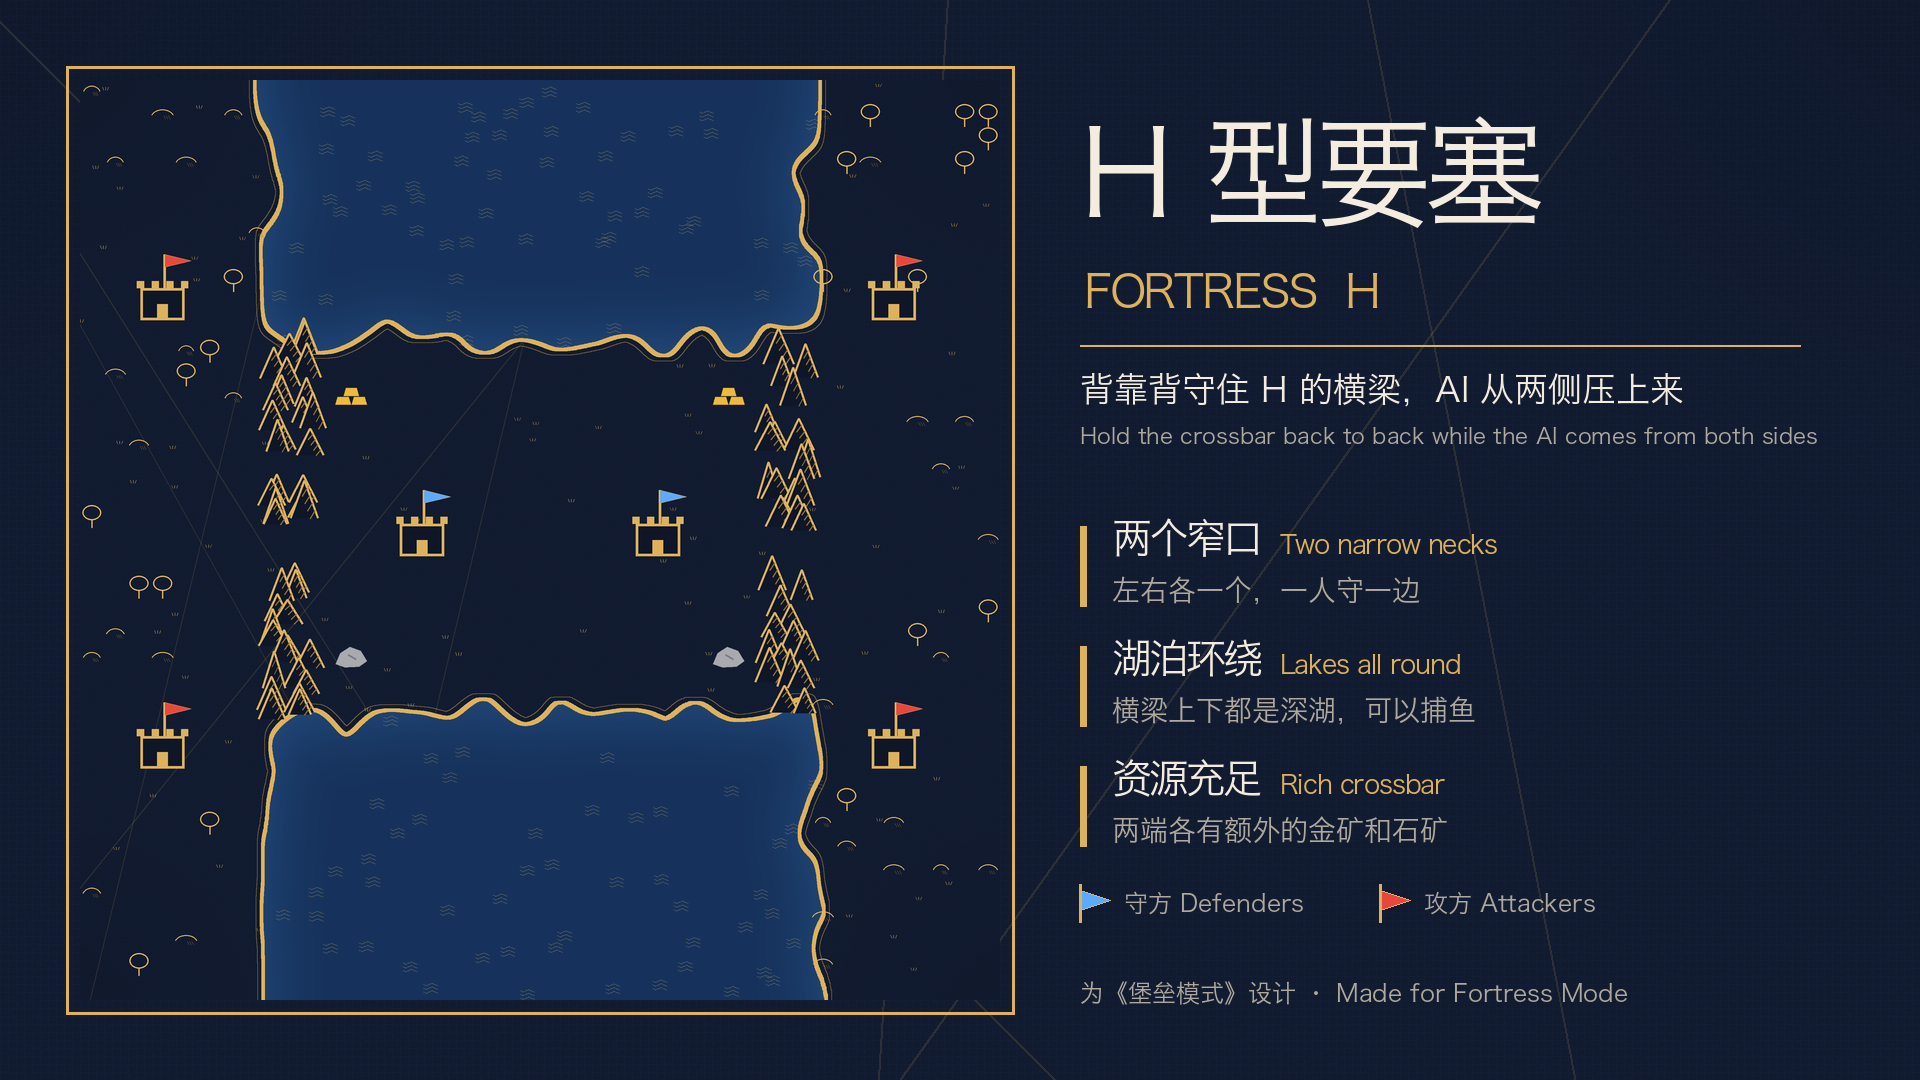
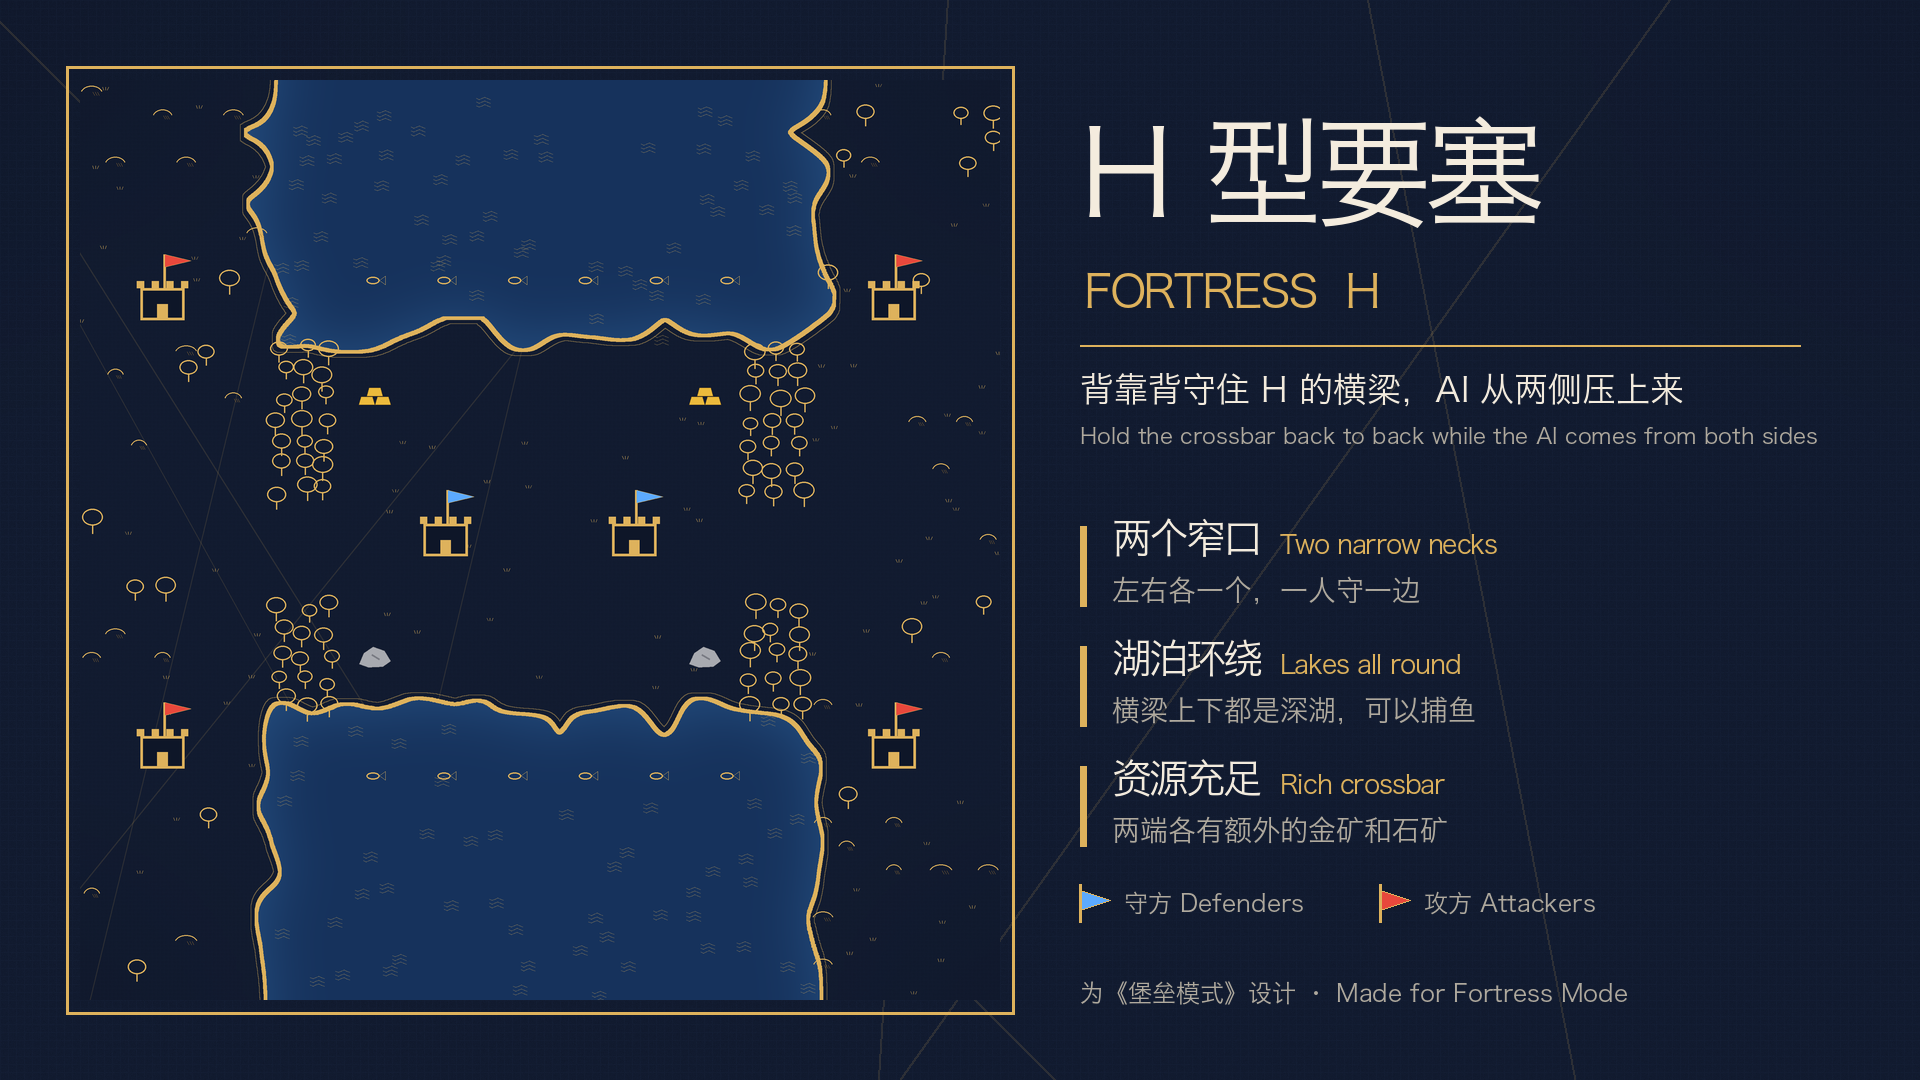
Fortress H: forest necks twice as wide, real shores and fish
Mountains made the camera jump, so the necks are cut through dense flat
forest, four squares wide instead of two. The lakes follow the official
lake maps: deep ocean water, a shore along the crossbar only, and fish a
little way out.

diff --git a/maps/tools/map_art.py b/maps/tools/map_art.py
@@ -95,7 +95,7 @@ def _gold_layer(image, mask, colour=GOLD, alpha=255):
 
 
 def _water(image, rows, cell, rng):
-    mask = _mask(rows, "~", image.size[0], 0.45)
+    mask = _mask(rows, "~sf", image.size[0], 0.45)
     if not mask.getbbox():
         return
     mask = _organic(mask, cell, rng)
@@ -107,13 +107,22 @@ def _water(image, rows, cell, rng):
     ring = _outline(mask.filter(ImageFilter.MaxFilter(int(cell * 0.6) | 1)), max(3, int(cell * 0.08)))
     _gold_layer(image, ring, alpha=120)
     draw = ImageDraw.Draw(image, "RGBA")
-    for r, c in _cells(rows, "~"):
+    for r, c in _cells(rows, "~sf"):
         if rng.random() < 0.18:
             x, y = (c + rng.random()) * cell, (r + rng.random()) * cell
             for k in range(3):
                 yy = y + k * cell * 0.16
                 points = [(x + t * cell * 0.12, yy + math.sin(t * 1.6) * cell * 0.05) for t in range(6)]
                 draw.line(points, fill=GOLD + (110,), width=max(2, int(cell * 0.04)))
+
+
+def _fish(image, rows, cell):
+    draw = ImageDraw.Draw(image)
+    line = max(2, int(cell * 0.06))
+    for r, c in _cells(rows, "f"):
+        x, y = (c + 0.5) * cell, (r + 0.5) * cell
+        draw.ellipse([x - cell * 0.35, y - cell * 0.15, x + cell * 0.2, y + cell * 0.15], outline=GOLD, width=line)
+        draw.polygon([(x + cell * 0.2, y), (x + cell * 0.45, y - cell * 0.18), (x + cell * 0.45, y + cell * 0.18)], outline=GOLD)
 
 
 def _peak(draw, x, y, height, width, line):
@@ -167,8 +176,8 @@ def _trees(image, rows, cell, rng):
     draw = ImageDraw.Draw(image)
     line = max(3, int(cell * 0.07))
     for r, c in _cells(rows, "T"):
-        x, y = (c + 0.5) * cell, (r + 0.5) * cell
-        radius = cell * 0.4
+        x, y = (c + rng.uniform(0.25, 0.75)) * cell, (r + rng.uniform(0.25, 0.75)) * cell
+        radius = cell * rng.uniform(0.32, 0.46)
         draw.ellipse([x - radius, y - radius * 1.2, x + radius, y + radius * 0.4], outline=GOLD, width=line)
         draw.line([(x, y + radius * 0.4), (x, y + radius * 1.2)], fill=GOLD, width=line)
 
@@ -226,6 +235,7 @@ def draw_map(rows, size, defenders, seed=7):
     _grass(image, rows, cell, rng)
     _water(image, rows, cell, rng)
     _mountains(image, rows, cell, rng)
+    _fish(image, rows, cell)
     _hills(image, rows, cell, rng)
     _trees(image, rows, cell, rng)
     draw = ImageDraw.Draw(image)
